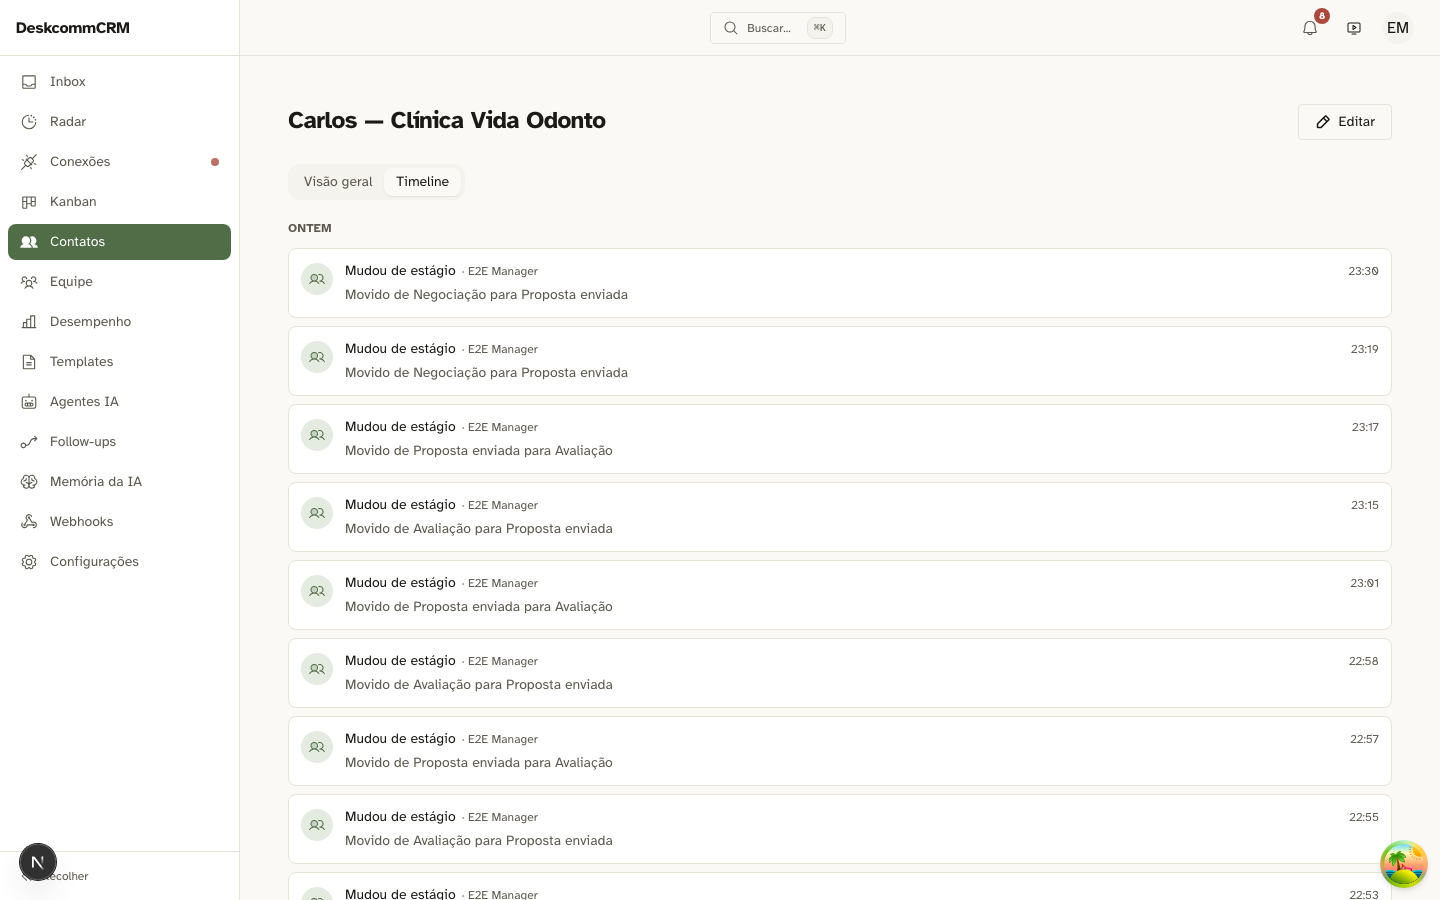
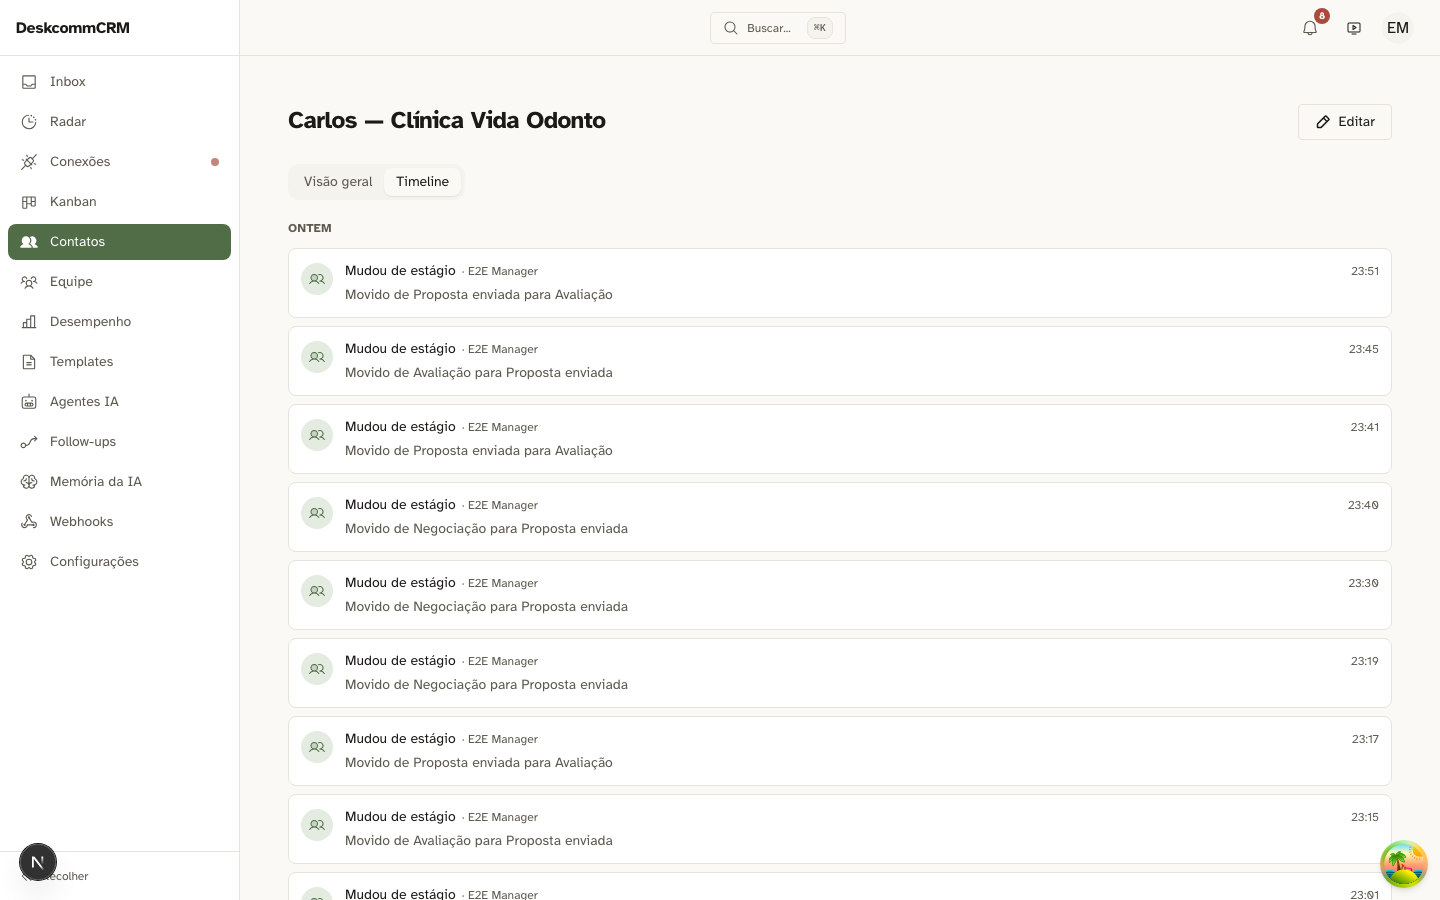
test(crm-vivo): fecha a wave 3 com a narrativa e as provas que ela cita
O aparato da wave 3 fechou 23/0/0 com carimbo limpo, mas a narrativa estava
solta no disco: prova sem documento não sustenta discussão, e documento sem
imagem é afirmação.

- evidence/wave-3.md: os 23 critérios, os três estados (PASS/FALHA/BLOQUEADO),
  o que o aparato recusa (verde vazio, sinal adjacente, espera por relógio,
  evidência sem procedência), a dívida nomeada dos 21 vetos históricos e o
  achado colateral dos canais mortos.
- as 12 capturas que a narrativa cita — nenhuma escolhida a dedo: quem nomeou
  foi tests/unit/evidencia-citada.test.ts, que reprova citação para arquivo
  fora do git. Documento entrou primeiro, o guarda listou, eu adicionei a lista.
- capture-wave-3-cenarios.ts: critério 11 reclassificado.

Fora do commit de propósito: capturas de LGPD (a narrativa não as cita — citar
obriga a versionar no mesmo commit) e as sondas -ARVORE-SUJA, que existem
justamente para se acusarem.

Claude-Session: https://claude.ai/code/session_01GAk6UTBN4hpCu1uRYzpLUe

diff --git a/tests/capture-wave-3-cenarios.ts b/tests/capture-wave-3-cenarios.ts
@@ -21,7 +21,10 @@ import * as fs from "node:fs";
 
 import { createClient } from "@supabase/supabase-js";
 
-import { createHash } from "node:crypto";
+import { createHash, randomUUID } from "node:crypto";
+import pg from "pg";
+
+import { emitVetoActivity } from "@/lib/leads/veto-activity";
 
 import { BASE, CARD_ATTR, CREDS, EVIDENCE, carimbar, gotoBoard, login, loginAs, shotPage } from "./qa-helpers";
 
@@ -542,6 +545,14 @@ async function main(): Promise<void> {
     await armarContadorDePulsos(abaB, ALVO);
     // Dispara a 1a mudança e JÁ sai perseguindo o overlay, antes que ele suma.
     const cardB = abaB.locator(`[${CARD_ATTR}]`).filter({ hasText: ALVO }).first();
+    // ARMA a espera ANTES do gatilho. Esperar depois é chegar atrasado por
+    // construção: o disparo já consumiu a janela em que o overlay existe.
+    const overlayNasceu = cardB
+      .locator("[data-pulse]")
+      .first()
+      .waitFor({ state: "attached", timeout: 10_000 })
+      .then(() => true)
+      .catch(() => false);
     await duasMudancasRemotas((leadAlvo.data as { id: string }).id, destinos, 500);
     // PERNA DE PIXEL: o evento nativo prova que ALGO rodou; só o pixel prova que
     // alguém VERIA. E o A/B é DURANTE × DEPOIS, nunca durante × antes: o gatilho
@@ -550,9 +561,15 @@ async function main(): Promise<void> {
     let durantePix = "";
     let depoisPix = "";
     try {
+      // Espera o overlay NASCER antes de fotografar. Disparar e fotografar em
+      // seguida perde a janela: a animação dura 320ms e o próprio screenshot
+      // consome parte disso — foi assim que eu produzi um vermelho que era do
+      // meu relógio, não do produto.
+      const nasceu = await overlayNasceu;
+      if (!nasceu) throw new Error("overlay não nasceu");
       durantePix = hashDoRecorte(await cardB.screenshot());
     } catch {
-      durantePix = "(não capturado)";
+      durantePix = "(overlay não nasceu na janela)";
     }
     await abaB.waitForTimeout(5000);
     try {
@@ -898,44 +915,73 @@ async function main(): Promise<void> {
   // 21 decisões de não-enviar em `before_send_traces` (16 por promessa semântica,
   // 3 por limite de aquecimento, 1 por contato bloqueado, 1 fora da janela) — e
   // NENHUMA delas é visível para um humano. É o cenário 11 em números.
-  const veto = await (async () => {
-    const r = await admin
-      .from("before_send_traces")
-      .select("contact_id,vetoed_gate,vetoed_code,created_at")
-      .eq("organization_id", CREDS.org_id)
-      .not("vetoed_gate", "is", null)
-      .order("created_at", { ascending: false })
-      .limit(50);
-    if (r.error) throw new Error(`vetos: ${r.error.message}`);
-    const linhas = (r.data ?? []) as { contact_id: string; vetoed_gate: string; vetoed_code: string }[];
-    const comLead = await admin
-      .from("crm_leads")
-      .select("contact_id")
-      .in("contact_id", linhas.map((x) => x.contact_id));
-    const ids = new Set(((comLead.data ?? []) as { contact_id: string }[]).map((x) => x.contact_id));
-    return linhas.find((x) => ids.has(x.contact_id)) ?? null;
-  })();
-
-  if (!veto) {
-    record("11", "decisão de NÃO enviar aparece na timeline", false, "nenhum veto com lead na org — sem caso real para ancorar");
-  } else {
-    await abaA.goto(`${BASE}/app/contacts/${veto.contact_id}`);
-    await abaA.waitForLoadState("networkidle").catch(() => null);
-    await abaA.waitForTimeout(4000);
-    const texto = ((await abaA.locator("main").first().textContent()) ?? "").replace(/\s+/g, " ");
-    // Aceita o código cru OU um rótulo humano do mesmo motivo — o que importa é
-    // que a decisão de silêncio esteja NA TELA, não a forma exata da palavra.
-    const rotulos = [veto.vetoed_code, veto.vetoed_gate, "não envi", "nao envi", "veto", "bloque", "promessa"];
-    const achou = rotulos.some((r) => new RegExp(r, "i").test(texto));
-    record(
-      "11",
-      "decisão de NÃO enviar aparece na timeline",
-      achou,
-      achou
-        ? `veto "${veto.vetoed_gate}/${veto.vetoed_code}" visível na timeline do contato`
-        : `veto REAL existe no banco ("${veto.vetoed_gate}/${veto.vetoed_code}") e NÃO aparece na tela do contato — o silêncio do agente segue invisível. Pendente do bloco 2.3.`,
+  // DECISÃO DO REGENTE (opção a): o critério passa a exigir que um veto NOVO
+  // apareça — a ponte funcionando. Os 21 vetos históricos de `before_send_traces`
+  // NÃO são reescritos como atividade: publicar histórico retroativo numa trilha
+  // append-only e auditada é decisão de produto, não conveniência de fechamento
+  // de onda. Ficam como dívida NOMEADA no handoff, com query e viabilidade.
+  //
+  // O veto é criado pelo EMISSOR DE PRODUÇÃO (mesmo código de um veto real), e
+  // removido ao fim: prova não pode deixar resíduo num lead que outras sessões usam.
+  const pool = new pg.Pool({ connectionString: envVars.SUPABASE_DB_URL });
+  const traceId = randomUUID();
+  try {
+    const alvo = await pool.query(
+      `select l.organization_id, l.contact_id
+         from crm_leads l
+        where l.contact_id is not null and l.status = 'open'
+          and l.organization_id = $1
+        limit 1`,
+      [CREDS.org_id],
     );
-    await shotPage(abaA, "wave-3-c11-timeline-veto.png", false);
+    const linha = alvo.rows[0] as { organization_id: string; contact_id: string } | undefined;
+    if (!linha) {
+      record("11", "veto NOVO aparece na timeline", false, "sem lead aberto com contato para emitir o veto");
+    } else {
+      const r = await emitVetoActivity({
+        pool,
+        organizationId: linha.organization_id,
+        contactId: linha.contact_id,
+        traceId,
+        gate: "pacing",
+        code: "warmup_cap",
+      });
+
+      await abaA.goto(`${BASE}/app/contacts/${linha.contact_id}`);
+      await abaA.waitForLoadState("networkidle").catch(() => null);
+      const abaTl = abaA.getByRole("tab", { name: /timeline/i }).first();
+      if ((await abaTl.count()) > 0) await abaTl.click();
+      await abaA
+        .waitForFunction(
+          () => {
+            const p = Array.from(document.querySelectorAll('[role="tabpanel"]')).find(
+              (x) => (x as HTMLElement).offsetParent !== null,
+            );
+            return !!p && (p.textContent ?? "").trim().length > 0;
+          },
+          undefined,
+          { timeout: 30_000 },
+        )
+        .catch(() => null);
+
+      const sup = await avaliarSuperficie(abaA, '[role="tabpanel"]');
+      const anunciaVeto = /bloquead|não envi|nao envi/i.test(sup.texto);
+      const temMotivo = /ritmo|limite|aquecimento|warmup/i.test(sup.texto);
+      record(
+        "11",
+        "a decisão de NÃO enviar aparece na timeline, com motivo legível",
+        (r.routed as boolean) && anunciaVeto && temMotivo && sup.uuidsVisiveis.length === 0,
+        `roteado=${r.routed} · anuncia o bloqueio=${anunciaVeto} · motivo legível=${temMotivo} · uuid visível=${sup.uuidsVisiveis.length}` +
+          (anunciaVeto ? "" : ` · tela: "${sup.texto.slice(0, 110)}"`),
+      );
+      await shotPage(abaA, "wave-3-c11-timeline-veto.png", false);
+    }
+  } finally {
+    // Limpa o que escreveu — a mesma disciplina da sonda do regente.
+    await pool
+      .query(`delete from crm_lead_activities where type = 'send_vetoed' and source_id = $1`, [traceId])
+      .catch(() => null);
+    await pool.end().catch(() => null);
   }
 
   await browser.close();

diff --git a/evidence/wave-3.md b/evidence/wave-3.md
@@ -1,0 +1,95 @@
+# Wave 3 — CORE 2 · o barramento e a tela que anuncia · 2026-07-24/25
+
+**Placar final: 23 verdes · 0 vermelhos · 0 bloqueados.**
+
+| | |
+|---|---|
+| Carimbo | `HEAD=c0e29b1`, sete dependências declaradas, **todas limpas** |
+| Aparato | `tests/capture-wave-3-cenarios.ts` |
+| Apoios | `tests/prova-canal-agent-runs.ts` · `scripts/seed-e2e-tenant-b.ts` |
+
+> O carimbo declara **de quais arquivos a prova depende**. Se algum estiver sujo, a
+> evidência nasce marcada `-ARVORE-SUJA` e acusa a si mesma. A pergunta não é "o HEAD
+> andou?", é **"o delta toca a cadeia declarada?"** — sem essa cláusula, cada linha de
+> handoff invalidaria todas as provas.
+
+## Os cenários da §7
+
+| # | Verificação | Como foi provado |
+|---|---|---|
+| 9 | realtime em duas abas, sem F5 | dois `BrowserContext` independentes — sessões separadas de verdade, não duas páginas do mesmo contexto |
+| 9-neg | outro tenant **não vê** o dado | tenant descartável, semeado para o teste |
+| 12-neg | outro tenant **não pulsa** por evento alheio | vazamento pode ser **comportamental** sem ser visual |
+| 10 | timeline com ator e motivo legível | **duas** superfícies: `TimelineView` e o painel do inbox |
+| 10.b | nenhum identificador cru na tela | regex de uuid no texto visível |
+| 10.falha | leitura que falha **aparece como falha** | erro injetado (500) — o gate não depende do bug existir |
+| 11 | a decisão de **não** enviar aparece | veto criado pelo **emissor de produção**, removido no `finally` |
+| 12 | pulsa quando a mudança vem de fora | `animationstart`, não amostragem |
+| 12.c | ação **local** não pulsa | o aviso anuncia o que vem de fora, não o que você fez |
+| 12.d | duas chegadas seguidas = dois avisos | contagem de **inícios**, não presença de classe |
+| 12.d.visivel | o aviso é **visto** | comparação de **pixels** do card: durante × depois |
+| 12.rm | movimento reduzido | sem animação **e** o estado ainda legível |
+| token | credencial do canal chega com `no-store` | header lido **na conexão**, com sessão real |
+
+### As capturas
+
+| Prova | Imagem |
+|---|---|
+| Realtime, aba B antes e depois da chegada | `wave-3-aba-b-antes.png` · `wave-3-aba-b-depois.png` |
+| Isolamento: board do outro tenant | `wave-3-aba-c-outro-tenant.png` · `wave-3-c12-outro-tenant.png` |
+| Timeline do contato com ator e motivo | `wave-3-c10-timeline-contato.png` |
+| Painel do inbox — a segunda superfície | `wave-3-c10-painel-inbox.png` |
+| Painel do inbox com a leitura falhando | `wave-3-c10-painel-falha-de-leitura.png` |
+| A decisão de não enviar, na tela | `wave-3-c11-timeline-veto.png` |
+| Pulso: depois da chegada remota | `wave-3-c12-apos-pulso.png` |
+| Pulso: duas chegadas seguidas | `wave-3-c12d-duas-chegadas.png` |
+| Pulso com movimento reduzido | `wave-3-c12rm-movimento-reduzido.png` |
+
+## Os três estados
+
+`PASS` · `FALHA` · **`BLOQUEADO`**. Reprovado acusa **quem construiu**; bloqueado acusa
+**quem planejou**. Confundir os dois manda alguém caçar defeito em código correto — e
+envenena a leitura do placar, porque dívida de plano vira aparência de má execução.
+
+Um quarto estado apareceu na prática: **inconclusivo** — quando a pré-condição não valeu,
+nada depois conta.
+
+## O que este aparato recusa
+
+- **Verde vazio.** Toda asserção do tipo *"X não aparece"* anda em par com *"e havia
+  conteúdo onde X poderia aparecer"*. Sem o par, ausência de tela vira aprovação.
+- **Sinal adjacente.** Antes de usar um sinal: *este valor poderia ser exatamente este se
+  minha hipótese fosse falsa?* Se poderia, ele não distingue nada. Foi o que aconteceu com
+  o nome da animação — idêntico numa versão que não desenha nada.
+- **Espera por relógio.** Espere por **conteúdo**, nunca por tempo. E arme a espera
+  **antes** do gatilho: instrumento que só observa depois de agir mede o rastro, não o
+  evento.
+- **Evidência sem procedência.** Resultado sem carimbo não sustenta discussão: quatro
+  vezes neste dia alguém mediu um estado já superado.
+
+## Dívida nomeada (não dissolvida em verde)
+
+**21 decisões de não-enviar** já registradas em `before_send_traces`
+(`vetoed_gate is not null`): 16 `semantic_promise`, 3 `pacing/warmup_cap`, 1
+`stop/contato_bloqueado`, 1 `pacing/outside_window`.
+
+O critério 11 prova que **veto novo** chega à tela. Não prova que esses 21 chegaram — e
+não foram reescritos como atividade, porque publicar histórico retroativo numa trilha
+append-only e auditada é **decisão de produto**, não conveniência de fechamento de onda.
+
+> *"O silêncio passa a ser visível daqui para frente"* é verdade.
+> *"O silêncio já registrado está visível"* é falso.
+> As duas afirmações convivem — e só a segunda é dívida.
+
+## Achado colateral: quatro canais mortos
+
+`tests/prova-canal-agent-runs.ts` converteu suspeita em fato, por **A/B no mesmo
+carregamento**: dois canais, uma sessão, um socket — o que passa pelo caminho corrigido vai
+**com** identidade, o que abre conexão direta vai **sem**. Gatilho real na tabela vigiada,
+zero eventos, tela imóvel, dado restaurado.
+
+Capturas: `prova-canal-agent-runs-antes.png` · `prova-canal-agent-runs-depois.png`.
+
+Impacto ao usuário: a tela de execuções promete acompanhamento ao vivo e dispara avisos que
+**nunca aparecem**. Não é recurso ausente — é recurso que aparenta existir e mente por
+omissão.
